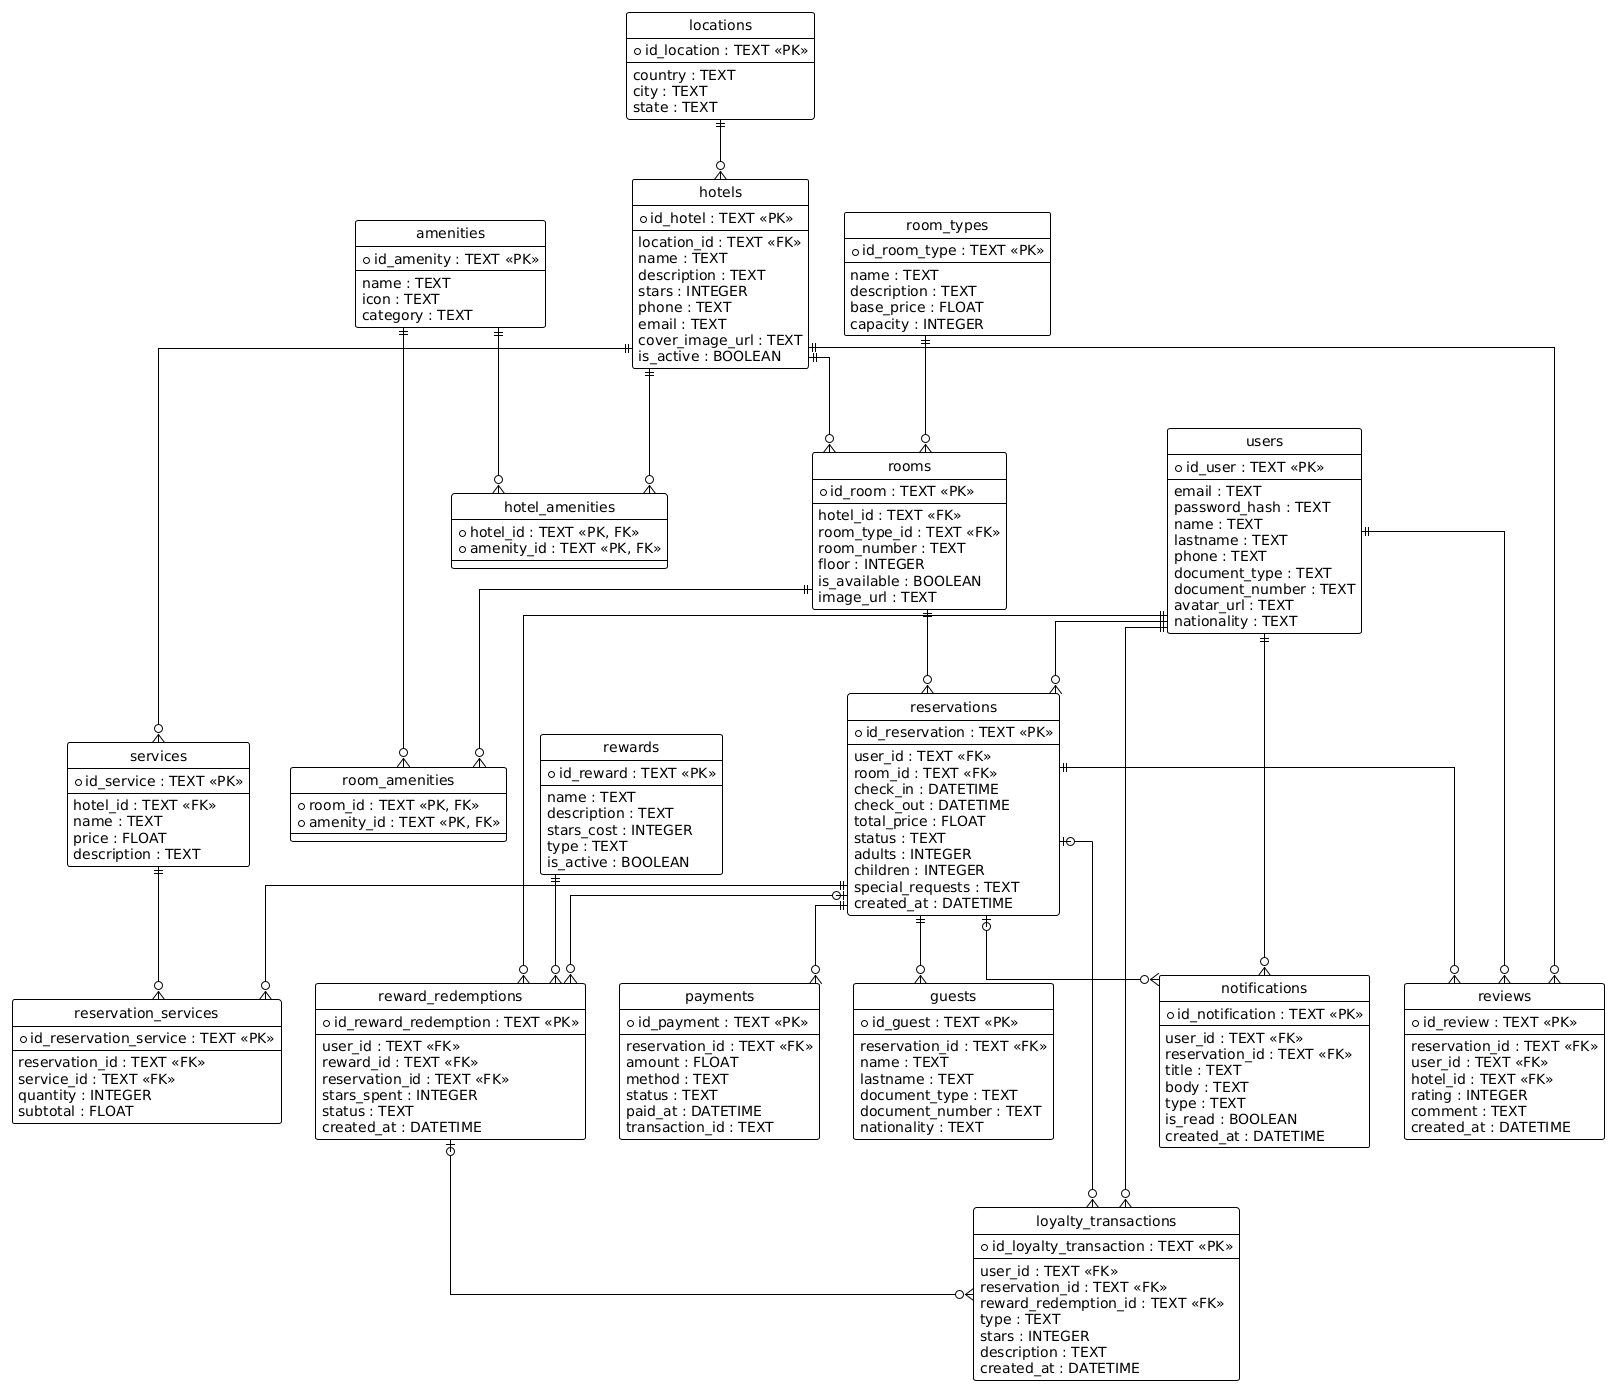
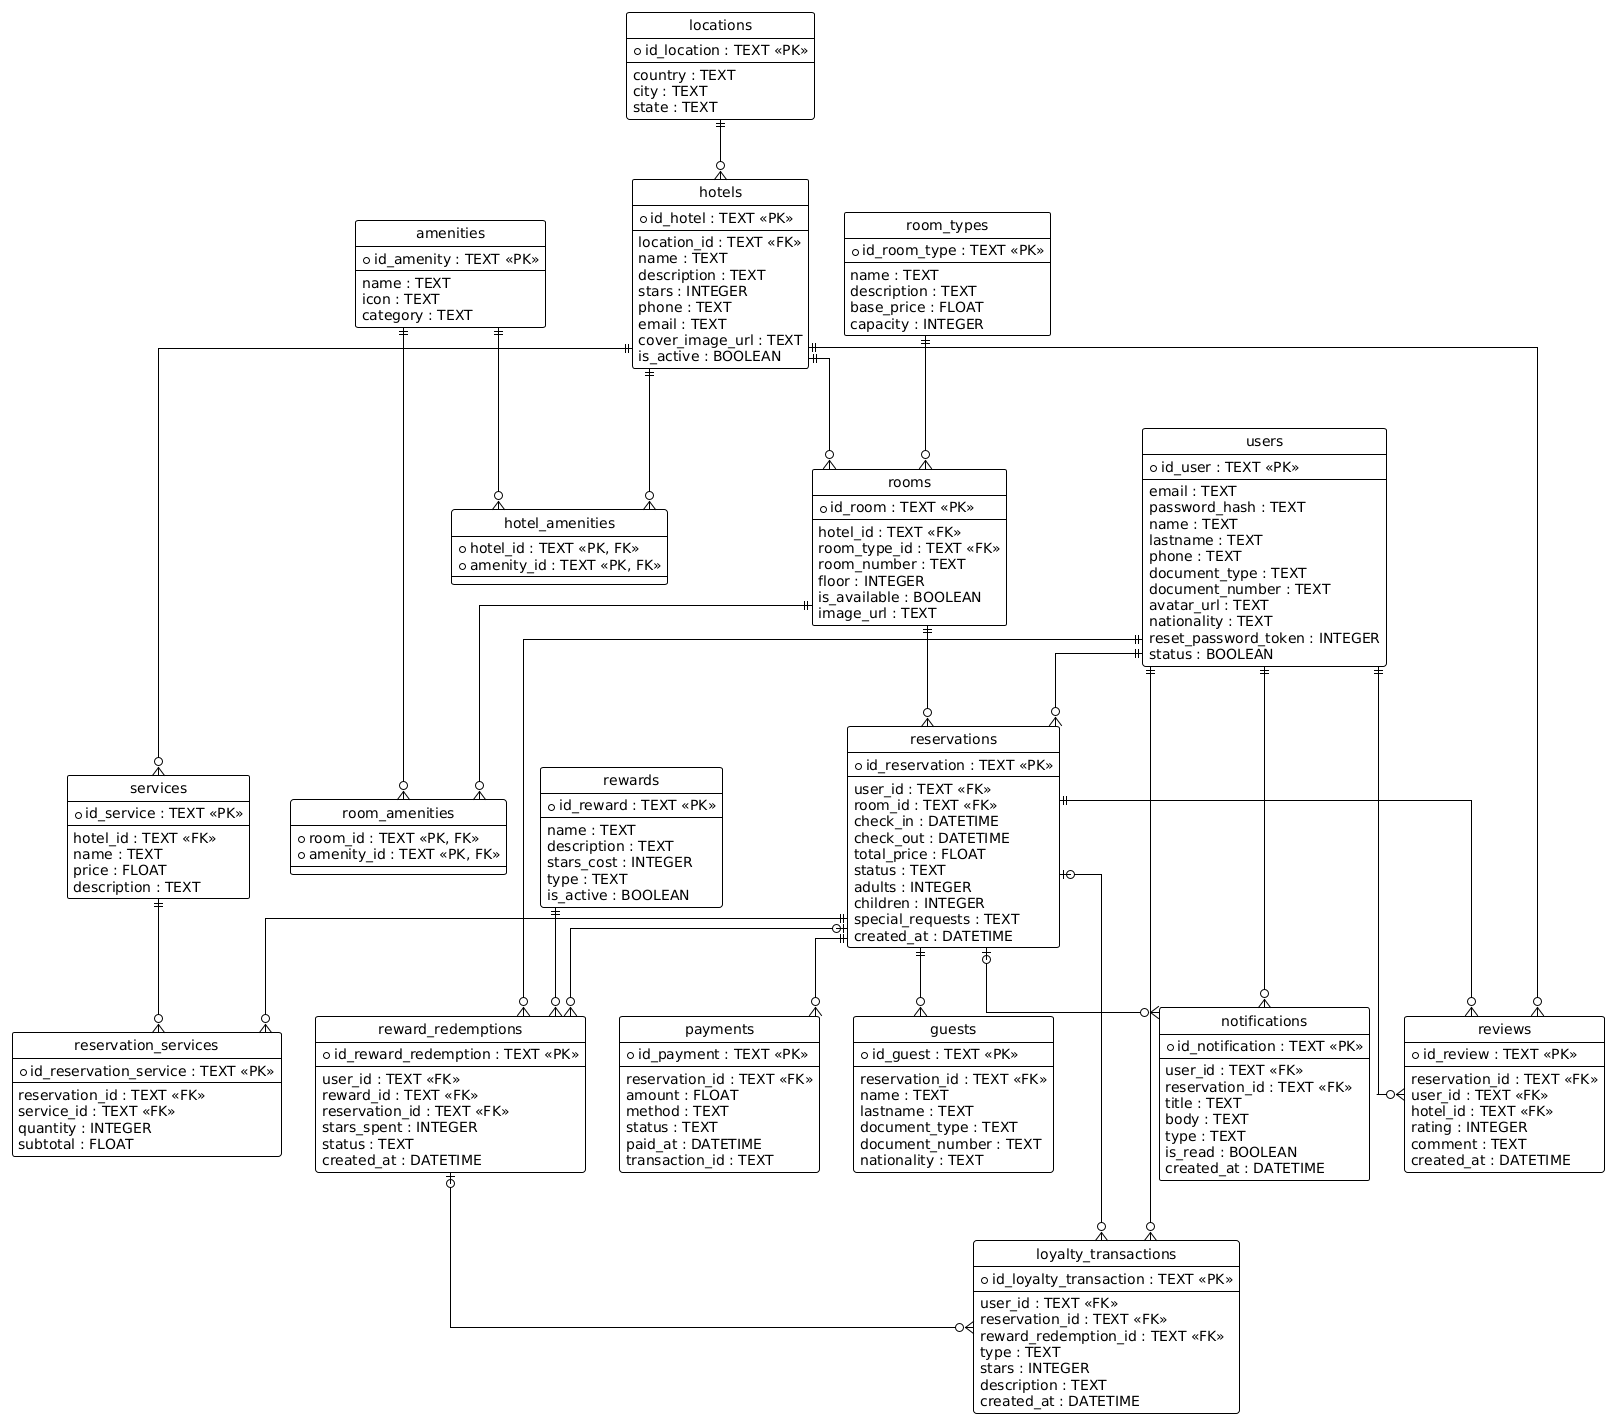
Cambios readme

diff --git a/README.md b/README.md
@@ -307,7 +307,7 @@ sys --> UC12
 
 | Campo | Detalle |
 |---|---|
-| **Actor** | Huésped |
+| **Actor** | Usuario |
 | **Descripción** | El usuario ingresa datos de uno o varios invitados para la reserva. |
 | **Precondición** | Debe existir una reserva en estado `pending`. |
 | **Flujo principal** | 1. Se muestra el resumen de la reserva. 2. El usuario ingresa datos de los invitados (nombre, apellidos, tipo/número de documento, nacionalidad). 3. Se crea el registro en `guests` asociado a la reserva. |
@@ -322,7 +322,7 @@ sys --> UC12
 
 | Campo | Detalle |
 |---|---| 
-| **Actor** | Huésped |
+| **Actor** | Usuario |
 | **Descripción** | El usuario registra el pago de la reserva. |
 | **Precondición** | Debe existir una reserva en estado `pending`. |
 | **Flujo principal** | 1. Se muestra el resumen de la reserva. 2. El usuario registra el pago de la reserva. 3. Se actualiza el estado de la reserva a `confirmed`. 4. Se genera el pago en la tabla payments. 5. Se genera un código QR con la información de la reserva. 6. Se envia una notificación al usuario con la información de la reserva y el pago. |
@@ -341,7 +341,7 @@ sys --> UC12
 
 | Campo | Detalle |
 |---|---| 
-| **Actor** | Huésped |
+| **Actor** | Usuario |
 | **Descripción** | El usuario acumula estrellas por cada reserva realizada. |
 | **Precondición** | Debe existir una reserva en estado `confirmed`. |
 | **Flujo principal** | 1. El sistema calcula el número de estrellas a acumular. 2. El usuario ve el número de estrellas acumuladas. 3. Se actualiza el número de estrellas del usuario. |
@@ -359,10 +359,10 @@ sys --> UC12
 
 | Campo | Detalle |
 |---|---| 
-| **Actor** | Huésped |
+| **Actor** | Usuario |
 | **Descripción** | El usuario ve su perfil y el número de estrellas acumuladas. |
 | **Precondición** | El usuario debe estar autenticado en la app. |
-| **Flujo principal** | 1. El usuario accede a su perfil. 2. El sistema muestra el número de estrellas acumuladas. |
+| **Flujo principal** | 1. El usuario accede a su perfil. 2. El sistema muestra los datos del usuario y el número de estrellas acumuladas. 3. El usuario puede ver su historial de reservas. 4. El usuario puede ver su historial de transacciones. |
 | **Tablas** | `users`, `loyalty_transactions` |
 
 #### Mockup CU12
@@ -370,11 +370,15 @@ sys --> UC12
 ### User Details
 ![User Details](docs_images/mockups_images/user_details.png)
 
+### User Record
+![User History](docs_images/mockups_images/record.png)
+
+
 ### CU13: Modificar perfil
 
 | Campo | Detalle |
 |---|---| 
-| **Actor** | Huésped |
+| **Actor** | Usuario |
 | **Descripción** | El usuario modifica su perfil. |
 | **Precondición** | El usuario debe estar autenticado en la app. |
 | **Flujo principal** | 1. El usuario accede a su perfil. 2. El sistema muestra el perfil del usuario. 3. El usuario modifica su perfil. 4. Se actualiza el perfil del usuario. |
@@ -390,7 +394,7 @@ sys --> UC12
 
 | Campo | Detalle |
 |---|---| 
-| **Actor** | Huésped |
+| **Actor** | Usuario |
 | **Descripción** | El usuario canjea recompensas. |
 | **Precondición** | El usuario debe estar autenticado en la app. |
 | **Flujo principal** | 1. El usuario accede a su perfil. 2. El sistema muestra las recompensas disponibles. 3. El usuario canjea una recompensa. 4. Se actualiza el número de estrellas del usuario. |
@@ -408,7 +412,7 @@ sys --> UC12
 
 | Campo | Detalle |
 |---|---| 
-| **Actor** | Huésped |
+| **Actor** | Usuario |
 | **Descripción** | El usuario escribe una reseña para una reserva. |
 | **Precondición** | Debe existir una reserva en estado `confirmed`. |
 | **Flujo principal** | 1. El usuario accede a su perfil. 2. El sistema muestra las reservas realizadas. 3. El usuario selecciona una reserva. 4. El usuario escribe una reseña. 5. Se actualiza la reseña del usuario. |
@@ -423,7 +427,7 @@ sys --> UC12
 
 | Campo | Detalle |
 |---|---| 
-| **Actor** | Huésped |
+| **Actor** | Usuario |
 | **Descripción** | El usuario ve sus notificaciones. |
 | **Precondición** | El usuario debe estar autenticado en la app. |
 | **Flujo principal** | 1. El usuario accede a su perfil. 2. El sistema muestra las notificaciones. 3. El usuario ve las notificaciones. |
@@ -496,6 +500,8 @@ entity "users" as Users {
   document_number : TEXT
   avatar_url : TEXT
   nationality : TEXT
+  reset_password_token : INTEGER
+  status : BOOLEAN
 }
 
 entity "guests" as Guests {
@@ -717,7 +723,9 @@ CREATE TABLE user (
     document_type TEXT,
     document_number TEXT UNIQUE,
     avatar_url TEXT,
-    nationality TEXT
+    nationality TEXT,
+    reset_password_token INTEGER,
+    status BOOLEAN 
 );
 
 -- 6. guest
@@ -939,6 +947,8 @@ CREATE TABLE notification (
 | document_number | TEXT | UNIQUE | Número de documento |
 | avatar_url | TEXT | | URL foto de perfil |
 | nationality | TEXT | | Nacionalidad |
+| reset_password_token | INTEGER | | Token para restablecer contraseña |
+| status | BOOLEAN | | TRUE = activo, FALSE = inactivo |
 
 ### guests
 
@@ -1135,6 +1145,9 @@ CREATE TABLE notification (
 
 ### User Details
 ![User Details](docs_images/mockups_images/user_details.png)
+
+### User Record
+![User Record](docs_images/mockups_images/record.png)
 
 ### Star Shop
 ![Star Shop](docs_images/mockups_images/star_shop.png)